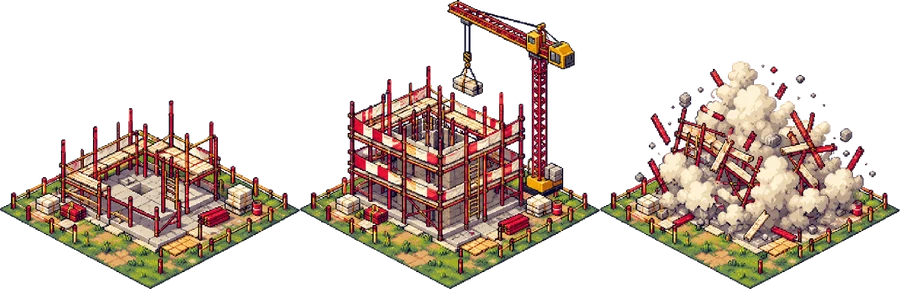
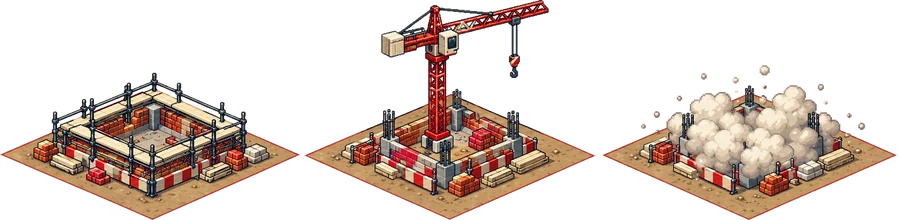
Tycoon demo: batch 5 art, a proper store panel, sharper news
Painted boots with kick frames circle the unicorn. Paths use the herringbone
paving with red-and-cream kerbs, a unicorn crest at each crossing and street
furniture (bins, bollards, flower tubs, a stadium signpost). The construction
frames are redrawn at the map's angle. The right panel is a Cookie Clicker
style store: each row is one big button with price, income, a progress bar to
the next look and the owned count; rows you can't reach yet show as ???. News
lines are rewritten and picked by how far the club has come.

Claude-Session: https://claude.ai/code/session_01B1Ewf1FcmBDPiqTkeHV3Ca

diff --git a/tycoon/game.js b/tycoon/game.js
@@ -167,18 +167,24 @@ function paintGround() {
     }
     c.globalAlpha = 1;
   } else for (let u = -60; u < 80; u += 2) quad(c, u, -60, u + 1, 80, '#548f39'); // mowing stripes until the tile loads
-  // paved footpaths between the plots (colours from ChatGPT's path tile): dark kerb, cream paving, staggered stone joints
-  for (const k of ROADS) { quad(c, k - 1.12, -60, k + 1.12, 80, '#8f7f68'); quad(c, -60, k - 1.12, 80, k + 1.12, '#8f7f68'); }
-  for (const k of ROADS) { quad(c, k - 1, -60, k + 1, 80, '#ead8b4'); quad(c, -60, k - 1, 80, k + 1, '#ead8b4'); }
-  c.strokeStyle = '#d3bd92'; c.lineWidth = 0.6; c.beginPath();
-  for (const k of ROADS) for (let i = -30; i < 50; i += 0.7) for (const [o, j] of [[-0.5, 0], [0.5, 0.35]]) { // across each lane of stones
-    const a = i + j, inCross = ROADS.some(q => Math.abs(a - q) < 1);
-    if (inCross) continue;
-    let [x1, y1] = P(k + o - 0.5, a), [x2, y2] = P(k + o + 0.5, a); c.moveTo(x1, y1); c.lineTo(x2, y2);
-    [x1, y1] = P(a, k + o - 0.5); [x2, y2] = P(a, k + o + 0.5); c.moveTo(x1, y1); c.lineTo(x2, y2);
+  // footpaths: ChatGPT's herringbone paving as a texture laid along the iso axes, a red-and-cream kerb, the club crest at each crossing
+  const pave = art('path-straight');
+  if (pave) {
+    const tex = document.createElement('canvas'); tex.width = 150; tex.height = 70; // a clean square of paving from the middle of the tile
+    tex.getContext('2d').drawImage(pave, 200, 80, 150, 70, 0, 0, 150, 70); // already drawn at our angle, so it repeats as a plain screen pattern
+    const pat = c.createPattern(tex, 'repeat'); pat.setTransform(new DOMMatrix([0.16, 0, 0, 0.16, 0, 0]));
+    for (const k of ROADS) { quad(c, k - 1, -60, k + 1, 80, pat); quad(c, -60, k - 1, 80, k + 1, pat); }
+  } else for (const k of ROADS) { quad(c, k - 1, -60, k + 1, 80, '#ead8b4'); quad(c, -60, k - 1, 80, k + 1, '#ead8b4'); }
+  for (const k of ROADS) for (const e of [-1, 1]) for (let i = -40; i < 60; i += 0.5) { // kerb: alternating red and cream blocks
+    const a = i, b2 = i + 0.5; if (ROADS.some(q => Math.abs(a + 0.25 - q) < 1)) continue;
+    const col = (i * 2) % 2 === 0 ? '#c8303a' : '#efe4c6', o = k + e * 1.02, w2 = 0.12 * e;
+    quad(c, o - w2, a, o + w2, b2, col); quad(c, a, o - w2, b2, o + w2, col);
   }
-  for (const k of ROADS) { let [x1, y1] = P(k, -30), [x2, y2] = P(k, 50); c.moveTo(x1, y1); c.lineTo(x2, y2); [x1, y1] = P(-30, k); [x2, y2] = P(50, k); c.moveTo(x1, y1); c.lineTo(x2, y2); }
-  c.stroke();
+  const cross = art('path-cross');
+  if (cross) for (const u of ROADS) for (const v of ROADS) { // the crest mosaic from the middle of the crossroads tile
+    const [x, y] = P(u, v), w2 = 1.5 * A, h2 = w2 * 54 / 110;
+    c.drawImage(cross, 295, 126, 110, 54, x - w2 / 2, y - h2 / 2, w2, h2);
+  }
   // the far corners of the grounds: a pond, a little park, the car park and the entrance plaza (ChatGPT art when it has loaded)
   if (!piece(c, 'ground-pond', 14, 0)) {
     quad(c, 14.2, 0.2, 17.8, 3.8, '#4a8a34');
@@ -186,6 +192,12 @@ function paintGround() {
   }
   if (!piece(c, 'ground-car-park', 14, 7)) quad(c, 14.2, 7.2, 17.8, 10.8, '#6b6878');
   if (!piece(c, 'ground-plaza', 14, 14)) quad(c, 14.2, 14.2, 17.8, 17.8, '#d8c99c');
+  // street furniture by the paths: bins, bollards, flower tubs and a signpost to the stadium
+  const props = art('path-props');
+  if (props) {
+    const fw = props.width / 4, put = (i, u, v, h) => { const [x, y] = P(u, v), w2 = fw * h / props.height; c.fillStyle = 'rgba(20,30,10,.25)'; c.beginPath(); c.ellipse(x + 1, y, w2 * 0.4, 1.4, 0, 0, Math.PI * 2); c.fill(); c.drawImage(props, i * fw, 0, fw, props.height, x - w2 / 2, y - h, w2, h); };
+    for (const [i, u, v, h] of [[0, 4.2, 8.6, 9], [2, 6.8, 4.2, 8], [1, 4.2, 4.3, 7], [1, 6.8, 6.8, 7], [2, 13.8, 11.2, 8], [0, 11.2, 13.8, 9], [3, 11.2, 4.1, 16], [1, 13.8, 13.8, 7]]) put(i, u, v, h);
+  }
   // benches by the plaza
   for (const [u, v] of [[13.9, 15.2], [15.2, 13.9]]) stand(c, 'prop-bench', u, v, 7);
   // trees: a few in the park corner and plenty outside the grounds
@@ -226,12 +238,10 @@ function drawLot(b, t) {
   if (img) quad(ctx, L.u0 + 0.35, L.v0 + 0.1, L.u0 + n + 0.35, L.v0 + n + 0.1, 'rgba(20,30,10,.22)');
   const site = art('construction'), k = t - (builtAt[b] || -9);
   if (site && k < 1.05) { // scaffolding, the crane, then the dust as it comes down; the building pops in after
-    // the site art is drawn from a steeper camera: keep the scaffolding as drawn and squeeze its plot onto ours
-    const fw = site.width / 3, sx0 = Math.min(2, Math.floor(k / 0.35)) * fw, w = 8 * A, sc = w / fw, cut = site.height * 0.73;
-    const u = L.u0 + n / 2 - 2, v = L.v0 + n / 2 - 2, [, ly] = P(u, v + 4), [, by] = P(u + 4, v + 4), top = cut * sc;
-    ctx.drawImage(site, sx0, 0, fw, cut, cx - w / 2, ly - top, w, top);
-    ctx.drawImage(site, sx0, cut, fw, site.height - cut, cx - w / 2, ly, w, by + 1 - ly);
-    hitBox[b] = {x: cx - w / 2, y: ly - top, w, h: by - ly + top}; return;
+    // scaffolding, crane, dust: drawn at the stadium's angle, so its plot sits straight on ours
+    const fw = site.width / 3, w = 8 * A, h = site.height * w / fw, [, by] = P(L.u0 + n / 2 + 2, L.v0 + n / 2 + 2);
+    ctx.drawImage(site, Math.min(2, Math.floor(k / 0.35)) * fw, 0, fw, site.height, cx - w / 2, by + 1 - h, w, h);
+    hitBox[b] = {x: cx - w / 2, y: by - h, w, h}; return;
   }
   const fit = FIT[`building-${b}-${st}`];
   if (fit) { // flat art drawn from a steeper camera: map its left, right and bottom ground corners onto the plot's
@@ -530,9 +540,11 @@ function ticker(s, important) {
   const now = performance.now() / 1000; if (!important && now - lastTick < 15) return;
   lastTick = now; $('tickerText').textContent = s; tickerT = 30;
 }
-function news() {
-  const pool = [...C.tapLines.map(l => l.replace('+{m} ', '')), ...C.clubs.map(c => `${c.name}: ${c.line}`), ...C.stars.map(s => `${s.name} ${s.trait[0].toLowerCase()}${s.trait.slice(1)}`)];
-  ticker(pool[Math.random() * pool.length | 0]);
+let lastNews = '';
+function news() { // a line that fits how far the club has come, never the same one twice in a row
+  const built = Object.keys(LOTS).filter(b => S.lv[b]).length, tier = built === 0 ? 0 : built < 4 ? 1 : 2;
+  const pool = C.news.filter(([t, l]) => t === tier && l !== lastNews).map(([, l]) => l);
+  if (pool.length) ticker(lastNews = pool[Math.random() * pool.length | 0]);
 }
 
 // ---------- tapping: the cookie unicorn (left) and the plots (map) ----------
@@ -569,7 +581,10 @@ function stepBoots(dt) {
     if (!still.matches && p < 0.05 && p + dt * 0.3 >= 0.05 && Math.random() < Math.min(1, 10 / n)) pops2.push({x: cx + Math.cos(a) * R0 * 0.55, y: cy + Math.sin(a) * R0 * 0.55, a, k: 0});
     const r = R0 - kick * bw * 0.45;
     bctx.save(); bctx.translate(cx + Math.cos(a) * r, cy + Math.sin(a) * r); bctx.rotate(a + Math.PI);
-    bctx.drawImage(BOOT, -bw / 2, -bh / 2, bw, bh); bctx.restore();
+    const bootArt = art('boot');
+    if (bootArt) { const f = kick ? (p < 0.03 ? 1 : 2) : 0, fw = bootArt.width / 4, h2 = bw * bootArt.height / fw; bctx.imageSmoothingEnabled = true; bctx.drawImage(bootArt, f * fw, 0, fw, bootArt.height, -bw / 2, -h2 / 2, bw, h2); }
+    else bctx.drawImage(BOOT, -bw / 2, -bh / 2, bw, bh);
+    bctx.restore();
   }
   for (let i = pops2.length - 1; i >= 0; i--) { // coins hop out of the unicorn and fade
     const c = pops2[i]; c.k += dt / 0.6; if (c.k >= 1) { pops2.splice(i, 1); continue; }
@@ -604,7 +619,7 @@ kicker.addEventListener('pointerdown', e => {
   floatText('+' + fmt(v), (e.clientX - r.left) / r.width * 100, (e.clientY - r.top) / r.height * 100, false, kickFloats);
   galloping = 0.18; crumbs(e.clientX - r.left, e.clientY - r.top);
   coinToBank(e.clientX, e.clientY);
-  if (S.taps % 40 === 1) ticker(C.tapLines[(S.taps / 9 | 0) % C.tapLines.length].replace('{m}', fmt(v)));
+  if (S.taps % 40 === 1) ticker(C.tapLines[(S.taps / 40 | 0) % C.tapLines.length].replace('{m}', '+' + fmt(v)));
   paintBank();
 });
 cv.addEventListener('pointerdown', e => {
@@ -624,25 +639,28 @@ function availableUps() { return C.upgrades.map((u, i) => ({u, i})).filter(({u, 
 function renderPanel(focus) {
   document.querySelectorAll('.tabs button').forEach(b => { const on = b.dataset.tab === tab; b.classList.toggle('on', on); b.setAttribute('aria-selected', on); });
   const r = rates();
+  const coin = '<i class="ico-coin" aria-hidden="true"></i>';
   if (tab === 'club') {
-    panel.innerHTML = C.buildings.map(b => {
-      const lv = S.lv[b.id], c = cost(b.id);
-      const earnLine = lv ? `${fmt(r[b.id])}/s` : '';
-      const th = b.id === 'boots' ? BOOT.toDataURL() : `art/building-${b.id}-${Math.max(1, stageOf(b.id))}.webp`;
-      return `<div class="row" id="row-${b.id}"><img class="thumb" src="${th}" alt="" style="${lv ? '' : 'filter:grayscale(1);opacity:.55'}"><div><h3>${esc(b.name)}<small>${lv ? 'LV ' + lv : ''}</small></h3>${lv ? `<div class="earn">${earnLine}</div>` : `<p>${esc(b.blurb)}</p>`}</div>
-        <button type="button" class="buy" data-buy="${b.id}" data-cost="${c}">${b.id === 'boots' ? 'Buy' : lv ? 'Upgrade' : 'Build'}<br>${fmt(c)}</button></div>`;
+    // Cookie Clicker style store: every row is one big button. Buildings you can't reach yet stay a "???" silhouette.
+    const reach = Math.max(1, ...C.buildings.map((b, i) => S.lv[b.id] ? i + 1 : 0)); // owned ones plus the next one
+    panel.innerHTML = `<div class="store-head"><span>Club store</span><b>${fmt(r.total)}/s</b></div>` + C.buildings.map((b, i) => {
+      const lv = S.lv[b.id], c = cost(b.id), hidden = i > reach;
+      if (hidden) return `<div class="shop-row hidden-row"><span class="thumb q">?</span><div class="mid-col"><h3>???</h3><p class="price">${coin}${fmt(c)}</p></div><b class="owned"></b></div>`;
+      const th = b.id === 'boots' ? '<span class="thumb boot-thumb"></span>' : `<img class="thumb${lv ? '' : ' unbuilt'}" src="art/building-${b.id}-${Math.max(1, stageOf(b.id))}.webp" alt="">`;
+      const next = LOTS[b.id] && lv ? C.stages.find(t => t > lv) : null, prev = [...C.stages].reverse().find(t => t <= lv) || 0;
+      const info = lv ? `<span class="earn">+${fmt(r[b.id])}/s</span>${next ? `<span class="stage" title="New look at level ${next}"><i style="width:${Math.round((lv - prev) / (next - prev) * 100)}%"></i></span>` : ''}` : `<span class="blurb">${esc(b.blurb)}</span>`;
+      return `<button type="button" class="shop-row" id="row-${b.id}" data-buy="${b.id}" data-cost="${c}">${th}<div class="mid-col"><h3>${esc(b.name)}</h3><p class="price">${coin}${fmt(c)}</p>${info}</div><b class="owned">${lv || ''}</b></button>`;
     }).join('');
-    if (focus) { const row = $('row-' + focus); if (row) { row.scrollIntoView({block: 'nearest', behavior: 'smooth'}); row.animate([{background: '#fff3b0'}, {background: '#fff'}], {duration: 900}); } }
+    if (focus) { const row = $('row-' + focus); if (row) { row.scrollIntoView({block: 'nearest', behavior: 'smooth'}); row.animate([{outline: '3px solid #f2c230'}, {outline: '3px solid transparent'}], {duration: 900}); } }
   } else if (tab === 'upgrades') {
     const list = availableUps().sort((a, b) => a.u.cost - b.u.cost);
-    panel.innerHTML = list.length ? list.map(({u, i}) => `<div class="row"><img class="thumb" src="art/building-${u.b}-${Math.max(1, stageOf(u.b))}.webp" alt=""><div><h3>${esc(u.name)}</h3><div class="earn">${u.what === 'tap' ? 'Tap money' : u.what === 'sales' ? 'Player sales' : esc(B[u.b].name)} ${u.mult >= 2 ? 'x' + u.mult : '+' + Math.round((u.mult - 1) * 100) + '%'}</div></div>
-      <button type="button" class="buy" data-up="${i}" data-cost="${u.cost}">Buy<br>${fmt(u.cost)}</button></div>`).join('')
-      : '<p class="empty">No upgrades right now. Level up your buildings to unlock more.</p>';
+    panel.innerHTML = list.length ? `<div class="store-head"><span>Upgrades</span><b>${list.length} available</b></div>` + list.map(({u, i}) => `<button type="button" class="shop-row" data-up="${i}" data-cost="${u.cost}"><img class="thumb" src="art/building-${u.b}-${Math.max(1, stageOf(u.b))}.webp" alt=""><div class="mid-col"><h3>${esc(u.name)}</h3><p class="price">${coin}${fmt(u.cost)}</p><span class="earn">${u.what === 'tap' ? 'Kicks' : u.what === 'sales' ? 'Player sales' : esc(B[u.b].name)} ${u.mult >= 2 ? 'x' + u.mult : '+' + Math.round((u.mult - 1) * 100) + '%'}</span></div><b class="owned up">${u.mult >= 2 ? 'x' + u.mult : '+' + Math.round((u.mult - 1) * 100) + '%'}</b></button>`).join('')
+      : '<p class="empty">Nothing to buy yet. Level up your buildings and upgrades turn up here.</p>';
   } else {
     const kept = S.stars.filter(s => s.kept);
-    panel.innerHTML = kept.length ? kept.map(s => { const st = C.stars[s.i]; return `<div class="row">${portrait(st)}<div><h3>${esc(st.name)}</h3><div class="earn">${bonusText(st.bonus)}</div></div>
-      <button type="button" class="buy sell" data-sell="${s.i}" data-cost="0">Sell<br>${fmt(starPrice())}</button></div>`; }).join('')
-      : '<p class="empty">Your academy finds a star now and then. Keep them for a bonus, or sell them for a fortune.</p>';
+    panel.innerHTML = kept.length ? `<div class="store-head"><span>Squad</span><b>${kept.length} star${kept.length > 1 ? 's' : ''}</b></div>` + kept.map(s => { const st = C.stars[s.i]; return `<div class="shop-row star-row">${portrait(st)}<div class="mid-col"><h3>${esc(st.name)}</h3><span class="earn">${bonusText(st.bonus)}</span></div>
+      <button type="button" class="sell-btn" data-sell="${s.i}">Sell<br>${fmt(starPrice())}</button></div>`; }).join('')
+      : '<p class="empty">The academy finds a star now and then. Keep him for a bonus or cash in.</p>';
   }
   refreshButtons();
 }
@@ -652,7 +670,7 @@ function portrait(st, hero) {
 }
 function bonusText(k) { return {tap: 'Tap money x2', tickets: 'Ticket income +50%', shop: 'Shop sales +50%', sales: 'Player sale prices +50%', transfer: 'Transfer office +50%', canteen: 'Everything +10% (keeps the canteen busy)'}[k]; }
 function refreshButtons() {
-  panel.querySelectorAll('[data-cost]').forEach(b => { b.disabled = S.money < +b.dataset.cost; });
+  panel.querySelectorAll('[data-cost]').forEach(b => { const ok = S.money >= +b.dataset.cost; b.disabled = !ok; b.classList.toggle('can', ok); });
   const n = availableUps().filter(({u}) => S.money >= u.cost).length;
   $('upCount').textContent = n || ''; $('starCount').textContent = S.stars.filter(s => s.kept).length || '';
 }
@@ -662,6 +680,8 @@ panel.addEventListener('click', e => {
   else if (b.dataset.up) { const i = +b.dataset.up, u = C.upgrades[i]; if (S.money < u.cost || S.ups.includes(i)) return; S.money -= u.cost; S.ups.push(i); ticker(`${u.name}: ${u.joke}`); }
   else if (b.dataset.sell) { const i = +b.dataset.sell, s = S.stars.find(x => x.i === i && x.kept); if (!s) return; const p = starPrice(); s.kept = false; earn(p); ticker(`${C.stars[i].name} sold to ${club().name} for ${fmt(p)}.`); }
   save(); paintBank(); renderPanel();
+  const again = b.dataset.buy && $('row-' + b.dataset.buy); // the row you just bought from gives a quick gold flash
+  if (again && !still.matches) again.animate([{boxShadow: 'inset 0 0 0 3px #f2c230, 0 3px 0 #1a1030'}, {boxShadow: 'inset 0 0 0 0 #f2c230, 0 3px 0 #1a1030'}], {duration: 380, easing: 'cubic-bezier(.23,1,.32,1)'});
 });
 
 // ---------- academy sales and stars ----------

diff --git a/tycoon/tycoon.css b/tycoon/tycoon.css
@@ -104,3 +104,38 @@ img{image-rendering:auto}
 .note{font-size:12px!important;color:#6b6280}
 .dots{font:400 40px/1 var(--px);text-align:center;letter-spacing:4px}
 @media (prefers-reduced-motion:reduce){.float,.event-badge,.sheet,.modal,.rays{animation:none}}
+
+/* ---------- the store (right panel): every row is one big button, Cookie Clicker style ---------- */
+.panel{gap:6px;background:#efe3c1;background-image:repeating-linear-gradient(0deg,transparent 0 23px,rgba(26,16,48,.04) 23px 24px)}
+.store-head{display:flex;justify-content:space-between;align-items:baseline;padding:2px 4px 4px;border-bottom:2px dashed rgba(26,16,48,.25);font:700 11px var(--lab);text-transform:uppercase;letter-spacing:1px;color:#6b5a3a}
+.store-head b{font:400 22px/1 var(--px);color:#1d7a45;letter-spacing:0}
+.shop-row{all:unset;box-sizing:border-box;display:grid;grid-template-columns:56px 1fr auto;gap:10px;align-items:center;padding:6px 10px 6px 6px;background:#fffaf0;border:2px solid var(--ink);box-shadow:0 3px 0 var(--ink);cursor:pointer;position:relative;transition:transform .12s var(--ease),box-shadow .12s var(--ease),background-color .15s ease}
+button.shop-row:disabled{cursor:default;background:#e9dfc6}
+button.shop-row:disabled .thumb{opacity:.6}
+button.shop-row:disabled .price{color:#b0412f}
+button.shop-row.can{background:#fffaf0}
+button.shop-row.can::before{content:'';position:absolute;left:-2px;top:-2px;bottom:-2px;width:6px;background:var(--gold);border-right:2px solid var(--ink)}
+button.shop-row.can:active{transform:translateY(2px);box-shadow:0 1px 0 var(--ink)}
+@media (hover:hover) and (pointer:fine){button.shop-row.can:hover{background:#fff3cf}}
+.shop-row .thumb{width:56px;height:46px;object-fit:contain;image-rendering:auto}
+.shop-row .thumb.unbuilt{filter:grayscale(1) brightness(.75);opacity:.55}
+.shop-row .boot-thumb{display:block;background:url(art/boot.webp) 0 50%/400% auto no-repeat}
+.shop-row .thumb.q{display:grid;place-items:center;font:400 34px var(--px);color:#b9ad8c;background:#e4d8b8;border:2px dashed #b9ad8c}
+.hidden-row{opacity:.7;cursor:default}
+.hidden-row h3{color:#9c8f6e}
+.mid-col{min-width:0;display:grid;gap:1px}
+.mid-col h3{margin:0;font:400 22px/1 var(--px);white-space:nowrap;overflow:hidden;text-overflow:ellipsis}
+.price{margin:0;display:flex;align-items:center;gap:4px;font:700 12px var(--lab);color:#1d7a45}
+.ico-coin{display:inline-block;width:13px;height:13px;background:url(art/coin.webp) 0 0/78px 13px}
+.mid-col .earn{font:700 10px var(--lab);color:#6b5a3a}
+.mid-col .blurb{font:500 12px/1.25 Barlow,sans-serif;color:#5b5070}
+.stage{display:block;height:4px;background:#d8cba6;margin-top:3px;max-width:120px}
+.stage i{display:block;height:100%;background:var(--red)}
+.owned{font:400 40px/1 var(--px);color:rgba(26,16,48,.22);min-width:34px;text-align:right}
+.owned.up{font-size:24px;color:#1d7a45}
+.star-row{cursor:default}
+.star-row .portrait{width:56px;height:56px}
+.sell-btn{background:var(--cream2);border:2px solid var(--ink);box-shadow:0 3px 0 var(--ink);padding:7px 8px;font:700 11px var(--lab)}
+.sell-btn:active{transform:translateY(2px);box-shadow:0 1px 0 var(--ink)}
+.tabs button{transition:transform .12s var(--ease)}
+.tabs button:active{transform:translateY(2px);box-shadow:0 1px 0 var(--ink)}

diff --git a/tycoon/content.js b/tycoon/content.js
@@ -3,6 +3,10 @@
 window.TYC_CONTENT = {
   // art files in tycoon/art/ that the game should use, e.g. 'building-stadium-1.png' (see ART_BRIEF.md)
   art: [
+    'boot.webp',
+    'path-cross.webp',
+    'path-props.webp',
+    'path-straight.webp',
     'construction.webp',
     'ground-grass.webp',
     'plot-for-sale.webp',
@@ -89,13 +93,37 @@ window.TYC_CONTENT = {
   // stage thresholds: building level at which it looks bigger
   stages: [1, 10, 25, 50],
 
+  // said now and then while you kick (every 40th kick); {m} is the money that kick made
   tapLines: [
-    '+{m} The clip has reached someone\'s uncle.',
-    '+{m} A scout has opened a spreadsheet.',
-    '+{m} Your agent calls that an assist.',
-    '+{m} Royal Madribble is monitoring the situation.',
-    '+{m} The ball has requested image rights.',
+    '{m}. The unicorn didn\'t even blink.',
+    '{m}. Your physio has asked you to stop.',
+    '{m}. That\'s the groundsman\'s wages sorted.',
+    '{m}. Somewhere, an accountant weeps.',
+    '{m}. The RSPCA have been in touch.',
+    '{m}. Still more than the shirt sponsor pays.',
   ],
+  // the news, picked by how big the club is: 0 = nothing built, 1 = a few buildings, 2 = a proper club
+  news: [
+    [0, 'The club bank account is a jar of 2p coins and a button.'],
+    [0, 'Your striker is your uncle. He has asked for a pay rise.'],
+    [0, 'The floodlights are one torch, held by a volunteer.'],
+    [0, 'Local paper: "Worst club in the league." Fair.'],
+    [0, 'The kit is washed in the canal on Sundays.'],
+    [1, 'Attendance up to 41. Two of them paid.'],
+    [1, 'The academy\'s first wonderkid is 6 foot 4 and 31 years old.'],
+    [1, 'Your scout watched three games this week. All on telly.'],
+    [1, 'The pie at half-time is now mostly pie.'],
+    [1, 'A sponsor! It\'s the kebab shop. The logo is a kebab.'],
+    [1, 'The club shop sold out of shirts. There were four.'],
+    [1, 'Rival chairman spotted kicking a horse. It didn\'t work.'],
+    [2, 'Sky want to show your games. Highlights only. Very short highlights.'],
+    [2, 'Pundits now say "the unicorn project" with a straight face.'],
+    [2, 'Fans are asking for a statue. Of the unicorn, not you.'],
+    [2, 'The away end has a waiting list. The home end has a dress code.'],
+    [2, 'Your uncle has retired. The club has named a car park after him.'],
+    [2, 'Three clubs have bought a horse and taped a cone to its head.'],
+  ],
+
 
   // bonus: tap | tickets | shop | sales | transfer | canteen (canteen = +10% on everything until the canteen exists)
   stars: [
